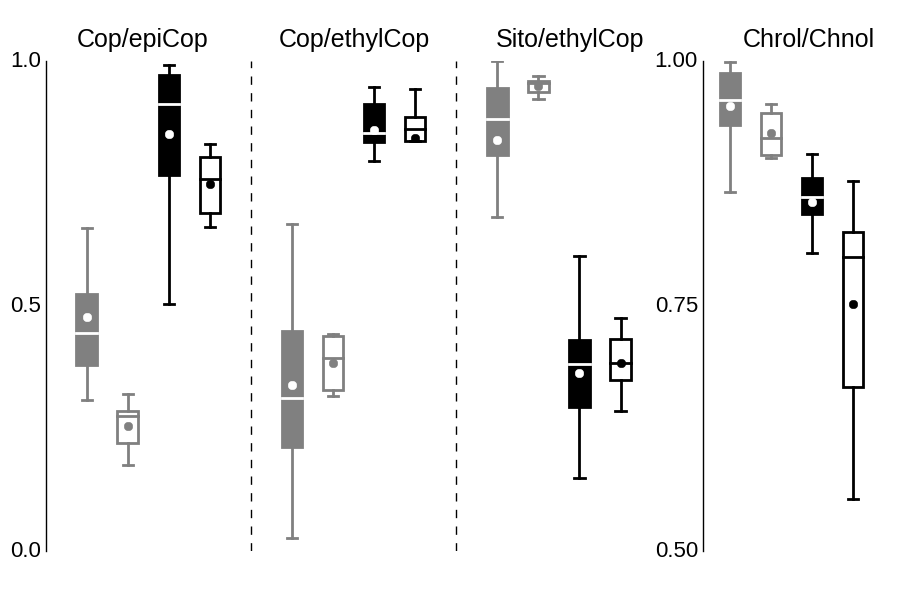
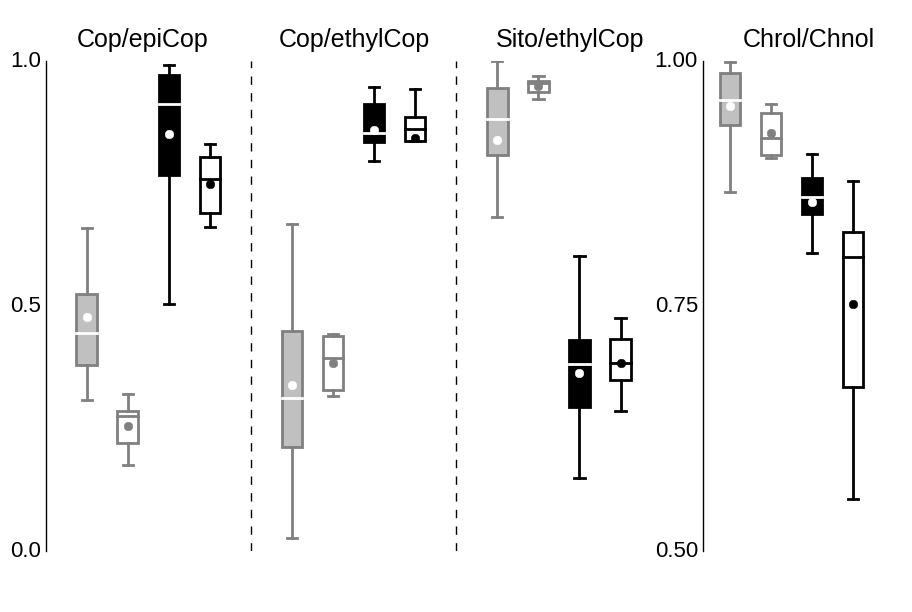
subo figuras con grises modificados

diff --git a/HistT2.py b/HistT2.py
@@ -49,12 +49,12 @@ fig=plt.figure(facecolor='w', figsize=(7,14.2))
 #creo el histograma
 histo = fig.add_axes([0.18, 0.59, 0.8, 0.25])
 cols = np.arange(17) # ctdad de barras(= esteroles)
-ancho = 0.3
-eb = {'linewidth':2,'capsize':4,'ecolor':'k'}
-eb2 = {'linewidth':2,'capsize':4,'ecolor':'grey'}
+ancho = 0.4
+eb = {'linewidth':2.5,'capsize':4,'capthick':2,'ecolor':'k'}
+eb2 = {'linewidth':2.5,'capsize':4,'capthick':2,'ecolor':'grey'}
 #eb3 = {'linewidth':2,'capsize':4,'ecolor':'brown'}
-rect1 = histo.bar(cols,meandevBZ[0,:],ancho, color = 'k', yerr=[np.zeros(17), meandevBZ[1,:]], error_kw=eb, linewidth=0, log=True)
-rect2 = histo.bar(cols+ancho,meandevN[0,:], ancho, color = 'darkgrey', yerr = [np.zeros(17),meandevN[1,:]], error_kw = eb2, linewidth=0, log=True)
+rect1 = histo.bar(cols,meandevBZ[0,:],ancho, color = 'k', yerr=[np.zeros(17), meandevBZ[1,:]], error_kw=eb, linewidth=1, log=True)
+rect2 = histo.bar(cols+ancho,meandevN[0,:], ancho, color = 'silver', yerr = [np.zeros(17),meandevN[1,:]], error_kw = eb2, linewidth=1,edgecolor='grey', log=True)
 #rect3 = histo.bar(cols+ancho*2,arnumfec[0,1:18], ancho, color = 'brown', yerr = [np.zeros(17),arnumfec[1,1:18]], error_kw = eb3, linewidth=0, log=True)
 # labels y ejes
 csfont = {'fontname':'Liberation Sans'}
@@ -127,10 +127,10 @@ for i in range(1,18):
 	meansedN = (np.append(meansedN,[[np.mean(arnumsed[sBZ:(sBZ+sN),i])],[np.std(arnumsed[sBZ:(sBZ+sN),i],dtype=float,ddof=1)]], axis = 1))
 
 #creo el histograma sedimentos
-ancho=0.3
+ancho=0.4
 histo2 = fig.add_axes([0.18, 0.21, 0.8, 0.25])
-rect4 = histo2.bar(cols,meansedBZ[0,:],ancho, color = 'k', yerr=[np.zeros(17), meansedBZ[1,:]], error_kw=eb, linewidth=0, log=True)
-rect5 = histo2.bar(cols+ancho,meansedN[0,:], ancho, color = 'darkgrey', yerr = [np.zeros(17),meansedN[1,:]], error_kw = eb2, linewidth=0, log=True)
+rect4 = histo2.bar(cols,meansedBZ[0,:],ancho, color = 'w', yerr=[np.zeros(17), meansedBZ[1,:]], error_kw=eb, linewidth=2.5,edgecolor='k', log=True)
+rect5 = histo2.bar(cols+ancho+0.1,meansedN[0,:], ancho, color = 'w',edgecolor='silver', yerr = [np.zeros(17),meansedN[1,:]], error_kw = eb2, linewidth=2, log=True)
 # labels y ejes
 csfont = {'fontname':'Liberation Sans'}
 histo2.set_ylabel('Sediment sterols (ug.$\mathregular{g^{-1}}$)', size=18,**csfont)

diff --git a/AccEffa2.py b/AccEffa2.py
@@ -36,7 +36,7 @@ for i,j,k in zip(cols,arnum[8,2:13],arnum[4,2:13]):
 
 # creo flux plot
 hBA = histo.twinx()
-hBA.errorbar(cols+0.5,arnum[4,2:13],yerr=arnum[5,2:13],marker='o', markersize=8,markerfacecolor='silver',linestyle='none', lw=1.5,ecolor='silver')
+hBA.errorbar(cols+0.5,arnum[4,2:13],yerr=arnum[5,2:13],marker='o', markersize=8,markerfacecolor='w',markeredgecolor='silver',markeredgewidth=2,linestyle='none', lw=2.5,ecolor='silver',capsize=2.5,capthick=2.5)
 hBA.set_ylabel('Vertical flux (mg.$\mathregular{cm^{-2}.year^{-1}}$)', size=18,**csfont)
 plt.ylim(-50,200)
 plt.xlim(0,11)
@@ -51,7 +51,7 @@ plt.setp(histo.get_xticklabels(),visible=False)
 histo2 = fig.add_axes([0.15, 0.2, 0.7, 0.35])
 cols = np.arange(11) # ctdad de barras (= esteroles)
 wid = 0.4
-histo2.bar(cols+0.2, arnum[3,2:13], 0.6, color = 'w', linewidth=2)
+histo2.bar(cols+0.2, arnum[3,2:13], 0.6, color = 'silver', linewidth=2,edgecolor='grey')
 histo2.set_ylabel('Accumulation Efficiency (%)', size=18,**csfont)
 plt.xlim(0,11)
 plt.ylim(0,8)
@@ -71,7 +71,7 @@ fontdictN2 = dict(color='g',weight='heavy',**csfont)
 
 # creo flux plot N
 hN = histo2.twinx()
-hN.errorbar(cols+0.5,arnum[6,2:13],yerr=arnum[7,2:13],marker='o', markersize=8,markerfacecolor='silver',linestyle='none', lw=1.5,ecolor='silver')
+hN.errorbar(cols+0.5,arnum[6,2:13],yerr=arnum[7,2:13],marker='o', markersize=8,markerfacecolor='w',markeredgecolor='grey',markeredgewidth=2,linestyle='none', lw=2.5,ecolor='grey',capsize=4,capthick=2.5)
 hN.set_ylabel('Vertical flux (ug.$\mathregular{cm^{-2}.year^{-1}}$)', size=18,**csfont)
 plt.ylim(-40,90)
 plt.xlim(0,11)

diff --git a/RatiosTS2.py b/RatiosTS2.py
@@ -54,7 +54,7 @@ pprop2 = dict(marker = 'o', markeredgecolor = 'k', markerfacecolor = 'k')
 cap2 = dict(linewidth = 2, color = 'k')
 box1.boxplot([arnum2[57:67,0],arnum2[57:67,2],arnum2[57:67,3]], vert = True, positions = (4,9,14), notch = False, patch_artist = True, showmeans = True, showfliers = False, boxprops = bprop2, whiskerprops = wprop2, medianprops = mprop2, meanprops = pprop2, capprops = cap2)
 
-bprop3 = dict(linewidth = 2, edgecolor = 'grey', facecolor = 'grey')
+bprop3 = dict(linewidth = 2, edgecolor = 'grey', facecolor = 'silver')
 wprop3 = dict(linewidth = 2, linestyle = '-', color = 'grey')
 mprop3 = dict(linestyle = '-',linewidth = 2, color = 'w')
 pprop3 = dict(marker = 'o', markeredgecolor = 'w', markerfacecolor = 'w')
